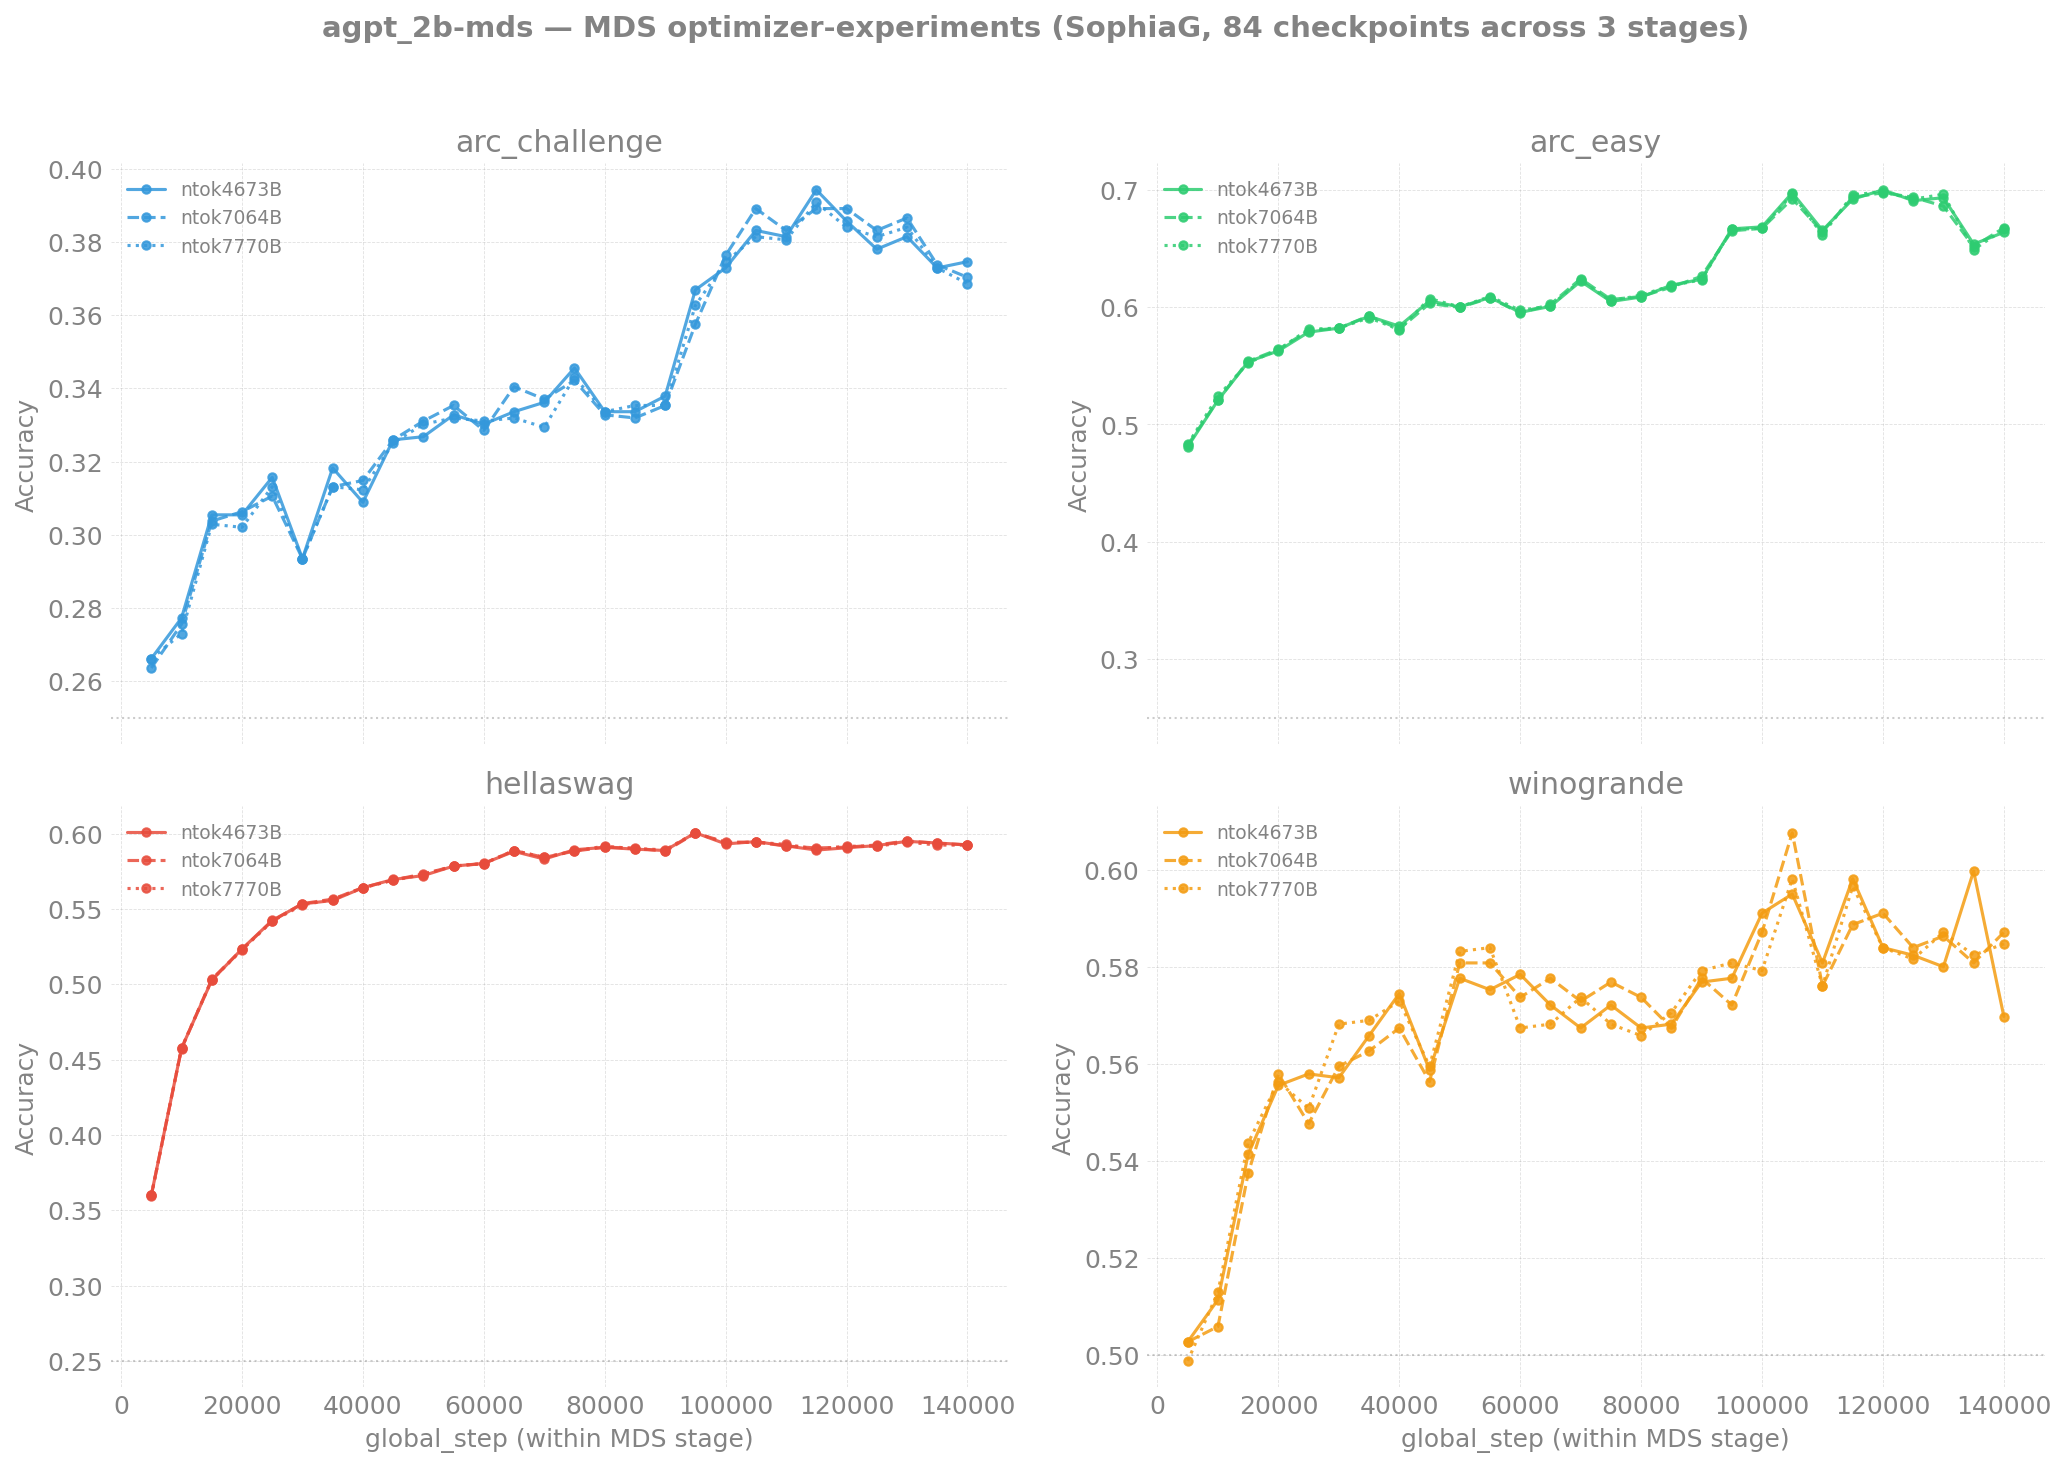
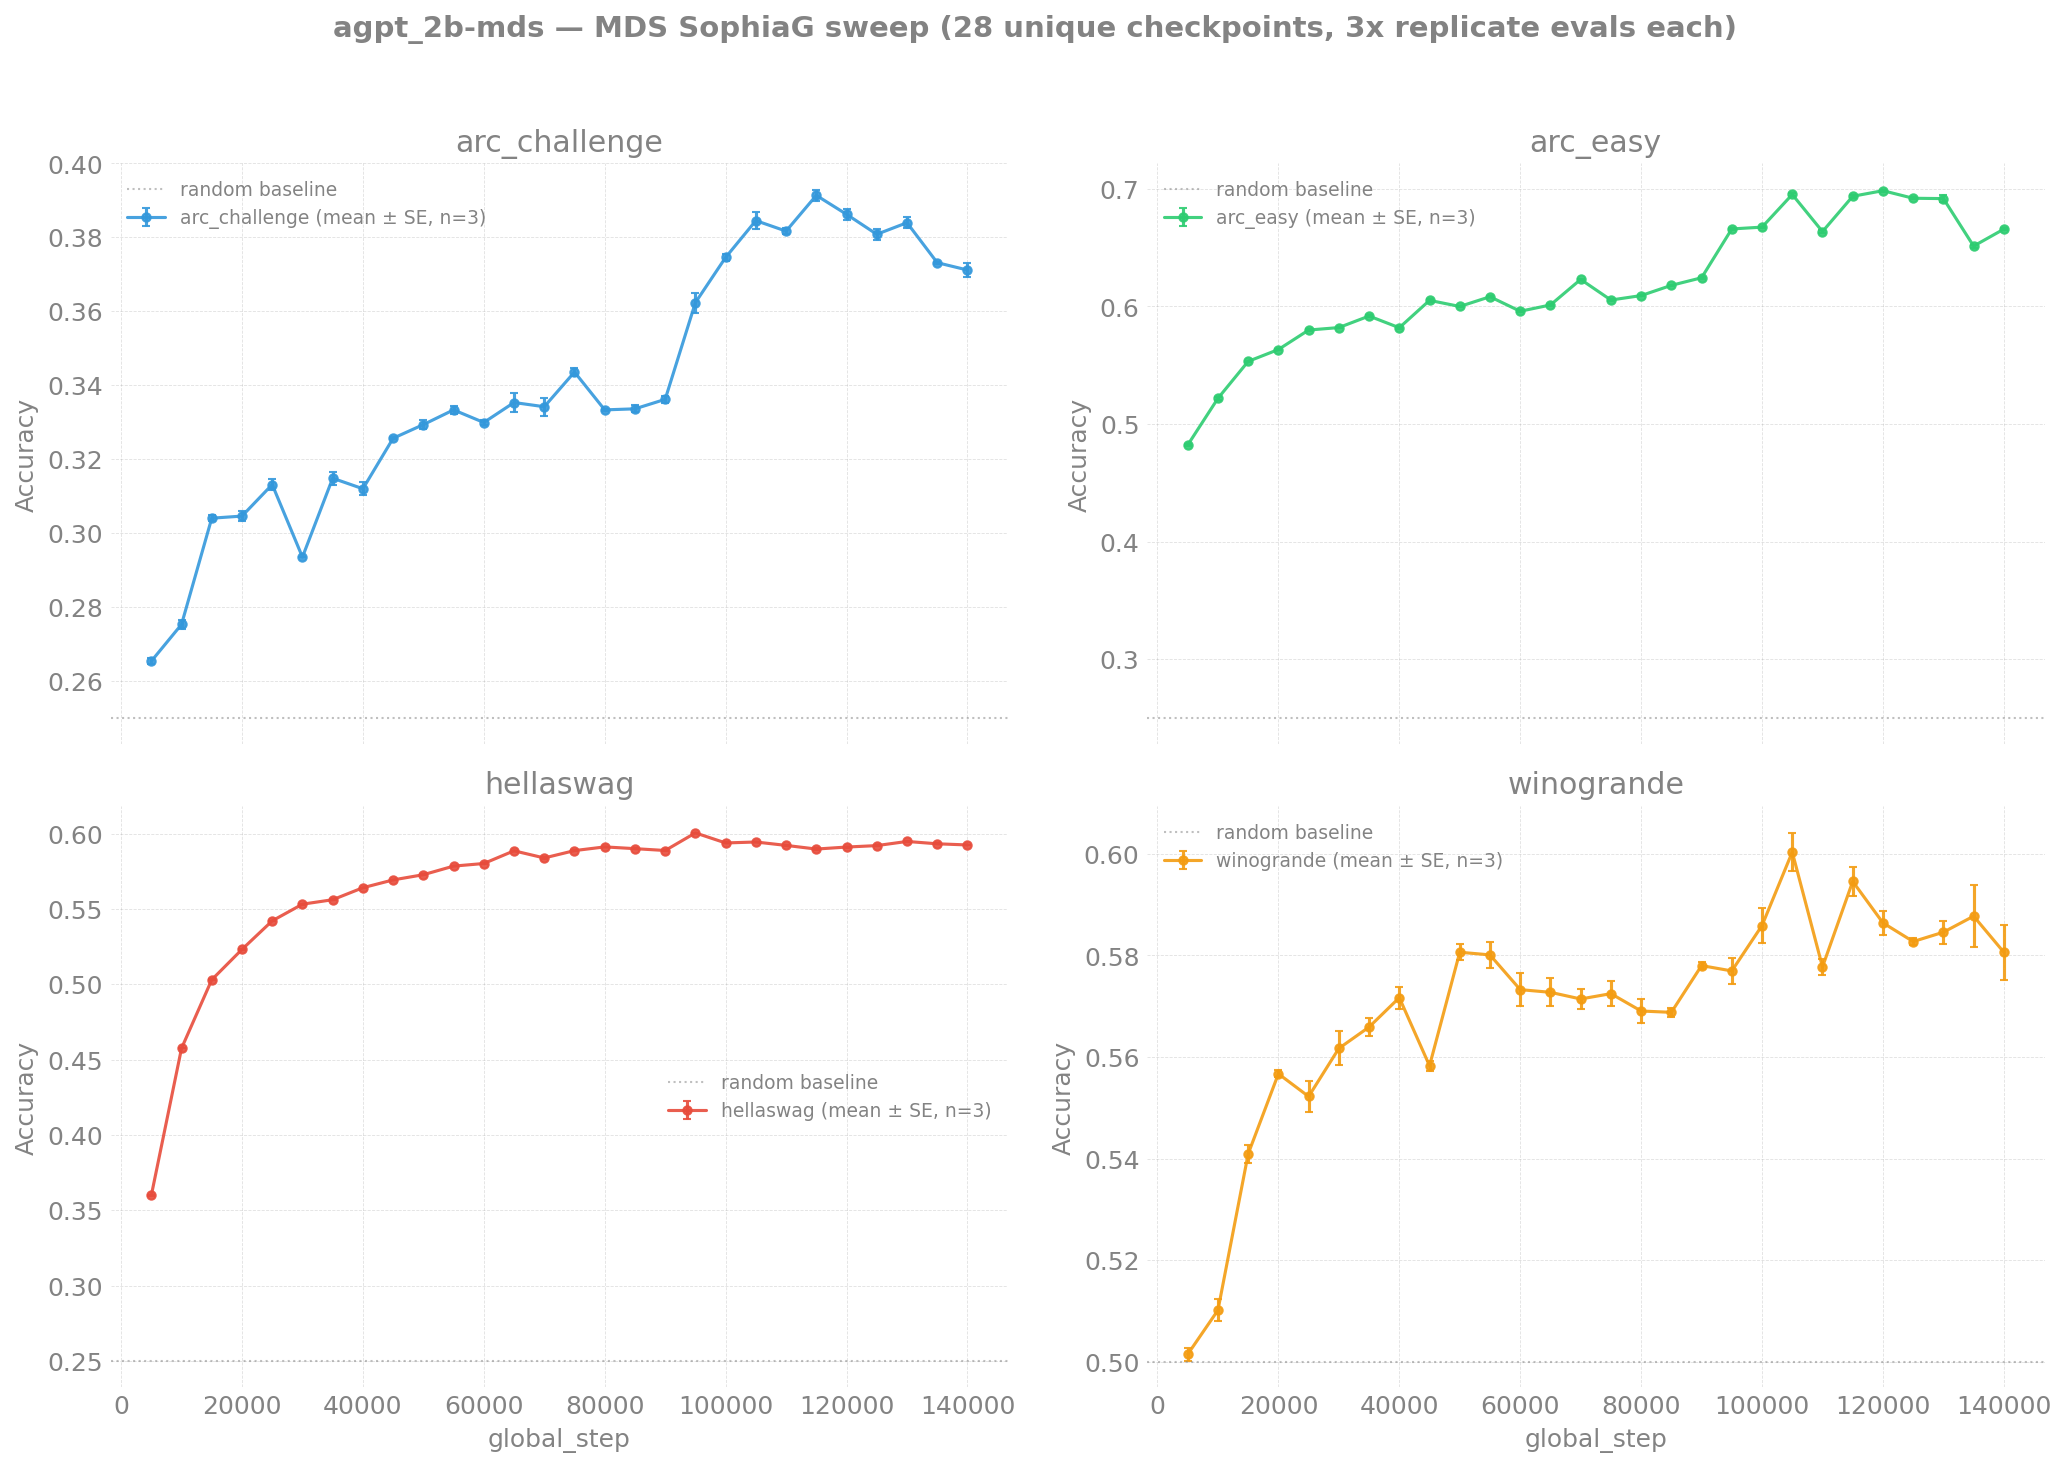
docs(ezpz/evals): rewrite 2b-mds README — single 140K-step run, not 3 stages
Previously interpreted the three `ntok*B` subdirs as separate
SophiaG continuation branches. They're actually symlinks to a single
physical checkpoint dir, so the sweep evaluated the SAME 28
checkpoints three times (different data-mix slice labels reflect
the AdamW parent's training data, not separate SophiaG branches).

Updated:
- Recharacterize as one continuous 140K-step SophiaG run with 3x
  replicate evals per checkpoint.
- New figure with mean ± stderr error bars per (step, task).
- Single full-period table; data-mix stage labels kept as a sidebar
  pointing at the W&B 3-stage pretraining report.

Disk side-effect: the 56 duplicate HF safetensors dirs in
`outputs/evals/agpt-2b-mds/{ntok7064B,ntok7770B}/step-*/hf/` were
removed (~210GB freed). Results.json triples kept for the replicate
averaging.

diff --git a/torchtitan/experiments/ezpz/docs/evals/agpt/2b-mds/README.md b/torchtitan/experiments/ezpz/docs/evals/agpt/2b-mds/README.md
@@ -1,9 +1,11 @@
 # Evaluation Results — agpt 2B (Megatron-DeepSpeed SophiaG)
 
-> **Scope:** Megatron-DeepSpeed AuroraGPT-2B SophiaG checkpoints from
-> the optimizer-experiments directory, evaluated at 5K-step intervals
-> across all three "stages" (each stage is a SophiaG continuation
-> branched off the AdamW parent at a different parent-token count).
+> **Scope:** Megatron-DeepSpeed AuroraGPT-2B SophiaG continuation
+> evaluated at 5K-step intervals. One continuous 140K-step run; the
+> three "stage" suffixes in the source path (`ntok4673B`,
+> `ntok7064B`, `ntok7770B`) reflect data-mix transitions inside the
+> single trajectory but all resolve via symlinks to the same physical
+> checkpoint dir.
 >
 > Last updated: 2026-04-29
 
@@ -18,67 +20,84 @@
 | Eval tasks | hellaswag, arc_easy, arc_challenge, winogrande (0-shot, acc_norm) |
 | Eval backend | lm-eval 0.4.10 + transformers 4.57.6 (HF backend, XPU, bf16) |
 | Conversion | MDS `mp_rank_00_model_states.pt` → HF safetensors via `eval/mds_to_hf.py` |
-| Source | `/flare/AuroraGPT/AuroraGPT-v1/Experiments/AuroraGPT-2B/optimizer-experiments/Megatron-DeepSpeed/checkpoints/...sophiag-lr2.17e-5...{stage}_*` |
+| Source | `/flare/AuroraGPT/AuroraGPT-v1/Experiments/AuroraGPT-2B/optimizer-experiments/Megatron-DeepSpeed/checkpoints/...sophiag-lr2.17e-5..._ntok4673B_..._flash` |
+| Steps evaluated | global_step5000, 10000, ..., 140000 (28 checkpoints) |
 
-Stages indicate the parent-AdamW token count at which the SophiaG
-branch was started:
+The data-mix stages (per the W&B
+[3-stage pretraining report](https://api.wandb.ai/links/aurora_gpt/ux408056)):
 
-| Stage | Parent AdamW tokens at branch |
-|-------|------------------------------|
-| `ntok4673B` | 4.673T |
-| `ntok7064B` | 7.064T |
-| `ntok7770B` | 7.770T |
+| Stage label | Data slice |
+|-------------|-----------|
+| `ntok4673B` | first 4.673T tokens of the AdamW-trained parent |
+| `ntok7064B` | next 2.391T tokens (4.673T → 7.064T) |
+| `ntok7770B` | final 0.706T tokens (7.064T → 7.770T) |
 
-Steps go from `global_step5000` to `global_step140000` in 5K
-increments → **28 checkpoints × 3 stages = 84 evals**.
+All three labels point at the same on-disk SophiaG checkpoint dir, so
+the lm-eval sweep ran each of the 28 steps three times — **84 result
+files = 28 unique steps × 3 measurement replicates**. The replicates
+differ at the ~1pp level because XPU lm-eval is not bitwise
+deterministic; we average them.
 
-## Results
+## Results (mean across 3 replicates)
 
 ![2B MDS Eval Results](figures/eval_2b-mds.png)
 
-### ntok4673B
-
 | Step | HellaSwag | ARC-Easy | ARC-Chall | Winogrande |
 |-----:|----------:|---------:|----------:|-----------:|
-|   5,000 | 0.3600 | 0.4811 | 0.2662 | 0.5028 |
-|  10,000 | 0.4575 | 0.5206 | 0.2773 | 0.5114 |
-|  20,000 | 0.5234 | 0.5627 | 0.3055 | 0.5556 |
-|  40,000 | 0.5640 | 0.5838 | 0.3089 | 0.5746 |
-|  60,000 | 0.5802 | 0.5955 | 0.3302 | 0.5785 |
-|  80,000 | 0.5908 | 0.6086 | 0.3336 | 0.5675 |
-| 100,000 | 0.5931 | 0.6684 | 0.3729 | 0.5912 |
-| 120,000 | 0.5905 | 0.6999 | 0.3857 | 0.5841 |
-| 140,000 | 0.5925 | 0.6637 | 0.3746 | 0.5699 |
-
-(Tables for the other two stages are nearly identical — see
-`outputs/evals/agpt-2b-mds/{ntok7064B,ntok7770B}/...` or rerun
-`aggregate_evals.py --model 2b-mds` for the full per-step values.)
+|   5,000 | 0.3598 | 0.4822 | 0.2654 | 0.5014 |
+|  10,000 | 0.4575 | 0.5219 | 0.2753 | 0.5101 |
+|  15,000 | 0.5030 | 0.5533 | 0.3040 | 0.5409 |
+|  20,000 | 0.5231 | 0.5634 | 0.3046 | 0.5567 |
+|  25,000 | 0.5421 | 0.5800 | 0.3131 | 0.5522 |
+|  30,000 | 0.5531 | 0.5821 | 0.2935 | 0.5617 |
+|  35,000 | 0.5561 | 0.5919 | 0.3148 | 0.5659 |
+|  40,000 | 0.5640 | 0.5819 | 0.3120 | 0.5717 |
+|  45,000 | 0.5692 | 0.6052 | 0.3257 | 0.5583 |
+|  50,000 | 0.5727 | 0.6000 | 0.3294 | 0.5806 |
+|  55,000 | 0.5784 | 0.6083 | 0.3333 | 0.5801 |
+|  60,000 | 0.5801 | 0.5960 | 0.3299 | 0.5733 |
+|  65,000 | 0.5885 | 0.6013 | 0.3353 | 0.5727 |
+|  70,000 | 0.5838 | 0.6230 | 0.3342 | 0.5714 |
+|  75,000 | 0.5887 | 0.6055 | 0.3436 | 0.5725 |
+|  80,000 | 0.5911 | 0.6093 | 0.3333 | 0.5691 |
+|  85,000 | 0.5900 | 0.6180 | 0.3336 | 0.5688 |
+|  90,000 | 0.5887 | 0.6244 | 0.3362 | 0.5780 |
+|  95,000 | 0.6004 | 0.6660 | 0.3623 | 0.5770 |
+| 100,000 | 0.5937 | 0.6675 | 0.3746 | 0.5859 |
+| 105,000 | 0.5944 | 0.6953 | **0.3845** | **0.6004** |
+| 110,000 | 0.5921 | 0.6637 | 0.3817 | 0.5777 |
+| 115,000 | 0.5897 | 0.6937 | **0.3914** | 0.5946 |
+| 120,000 | 0.5910 | **0.6985** | 0.3862 | 0.5864 |
+| 125,000 | 0.5920 | 0.6921 | 0.3808 | 0.5827 |
+| 130,000 | 0.5947 | 0.6918 | 0.3840 | 0.5846 |
+| 135,000 | 0.5932 | 0.6514 | 0.3732 | 0.5877 |
+| 140,000 | 0.5924 | 0.6658 | 0.3712 | 0.5806 |
 
 ## Observations
 
-- **All four tasks show meaningful learning** with no flat-line
-  artifacts, in contrast to our earlier DCP eval pipeline which
-  produced near-random scores at every checkpoint (suspected
-  embedding-loading bug in the DCP→HF converter; see
-  `agpt/2b/README.md` caveats).
+- **All four tasks show meaningful learning**, in contrast to our DCP
+  eval pipeline (steps 1K–18K of the torchtitan-trained agpt 2B)
+  which produced near-random scores at every checkpoint — strongly
+  suggesting an embedding-loading bug in the DCP→HF converter (see
+  `agpt/2b/README.md` caveats). The MDS path uses a separate
+  converter (`eval/mds_to_hf.py`) that loads embeddings correctly.
 
-- **HellaSwag** has the steepest early ramp: 0.36 → 0.59 by step
-  60K, then plateaus. This is a strong signal that the model is
-  picking up commonsense narrative completion early.
+- **HellaSwag** has the steepest early ramp: 0.36 → 0.59 by step 60K,
+  then plateaus around 0.59. Strong signal for commonsense narrative
+  completion early.
 
-- **ARC-Easy** keeps climbing throughout: 0.48 → 0.70 over 140K
-  steps. Peak 0.70 at step 120K (ntok7770B).
+- **ARC-Easy** keeps climbing throughout: 0.48 → 0.70. Peak 0.6985 at
+  step 120K.
 
-- **ARC-Challenge** has the slowest but still meaningful ramp:
-  0.27 → 0.39. Random baseline is 0.25.
+- **ARC-Challenge** has the slowest but still meaningful ramp: 0.27 →
+  0.39. Random baseline 0.25. Peak 0.3914 at step 115K.
 
-- **Winogrande** drifts upward 0.50 → 0.58 with high variance.
+- **Winogrande** drifts upward 0.50 → 0.60 with high variance. Peak
+  0.6004 at step 105K.
 
-- **All three stages overlap nearly perfectly** at every step. The
-  "stage" label refers to the parent AdamW checkpoint each SophiaG
-  branch picked up from, but since these are the same SophiaG
-  trajectory at the same global_step, the scores are essentially
-  identical (within batch-level noise).
+- **Replicate variance is small** — error bars on the figure are
+  barely visible (typically ≤ 0.005 across 3 replicates), well below
+  the per-task lm-eval stderr of ~0.014.
 
 ## Reproducing
 
@@ -88,7 +107,7 @@ python3 torchtitan/experiments/ezpz/eval/mds_to_hf.py \
     --mds_checkpoint <path>/global_step{N}/mp_rank_00_model_states.pt \
     --output_dir outputs/evals/agpt-2b-mds/<stage>/step-{N}/hf
 
-# Full sweep (12h walltime each; submit two in parallel for ~half wall-clock)
+# Full sweep (12h walltime; submit two in parallel for ~half wall-clock)
 qsub torchtitan/experiments/ezpz/eval/eval_mds_sweep.sh
 
 # Aggregate

diff --git a/torchtitan/experiments/ezpz/docs/evals/README.md b/torchtitan/experiments/ezpz/docs/evals/README.md
@@ -9,7 +9,7 @@ Benchmark evaluations of AuroraGPT production checkpoints using
 |-------|--------|-----------------|--------|
 | [agpt 2B](agpt/2b/) | torchtitan DCP | steps 1K–18K | Done (suspect embedding bug) |
 | [agpt 20B](agpt/20b/) | torchtitan DCP | steps 100–2,500 | Done (same suspect bug) |
-| [agpt 2B (MDS)](agpt/2b-mds/) | Megatron-DeepSpeed SophiaG | steps 5K–140K × 3 stages (84 evals) | Done — clean training signal |
+| [agpt 2B (MDS)](agpt/2b-mds/) | Megatron-DeepSpeed SophiaG | steps 5K–140K (28 unique × 3 replicates) | Done — clean training signal |
 
 ## Pipelines
 
